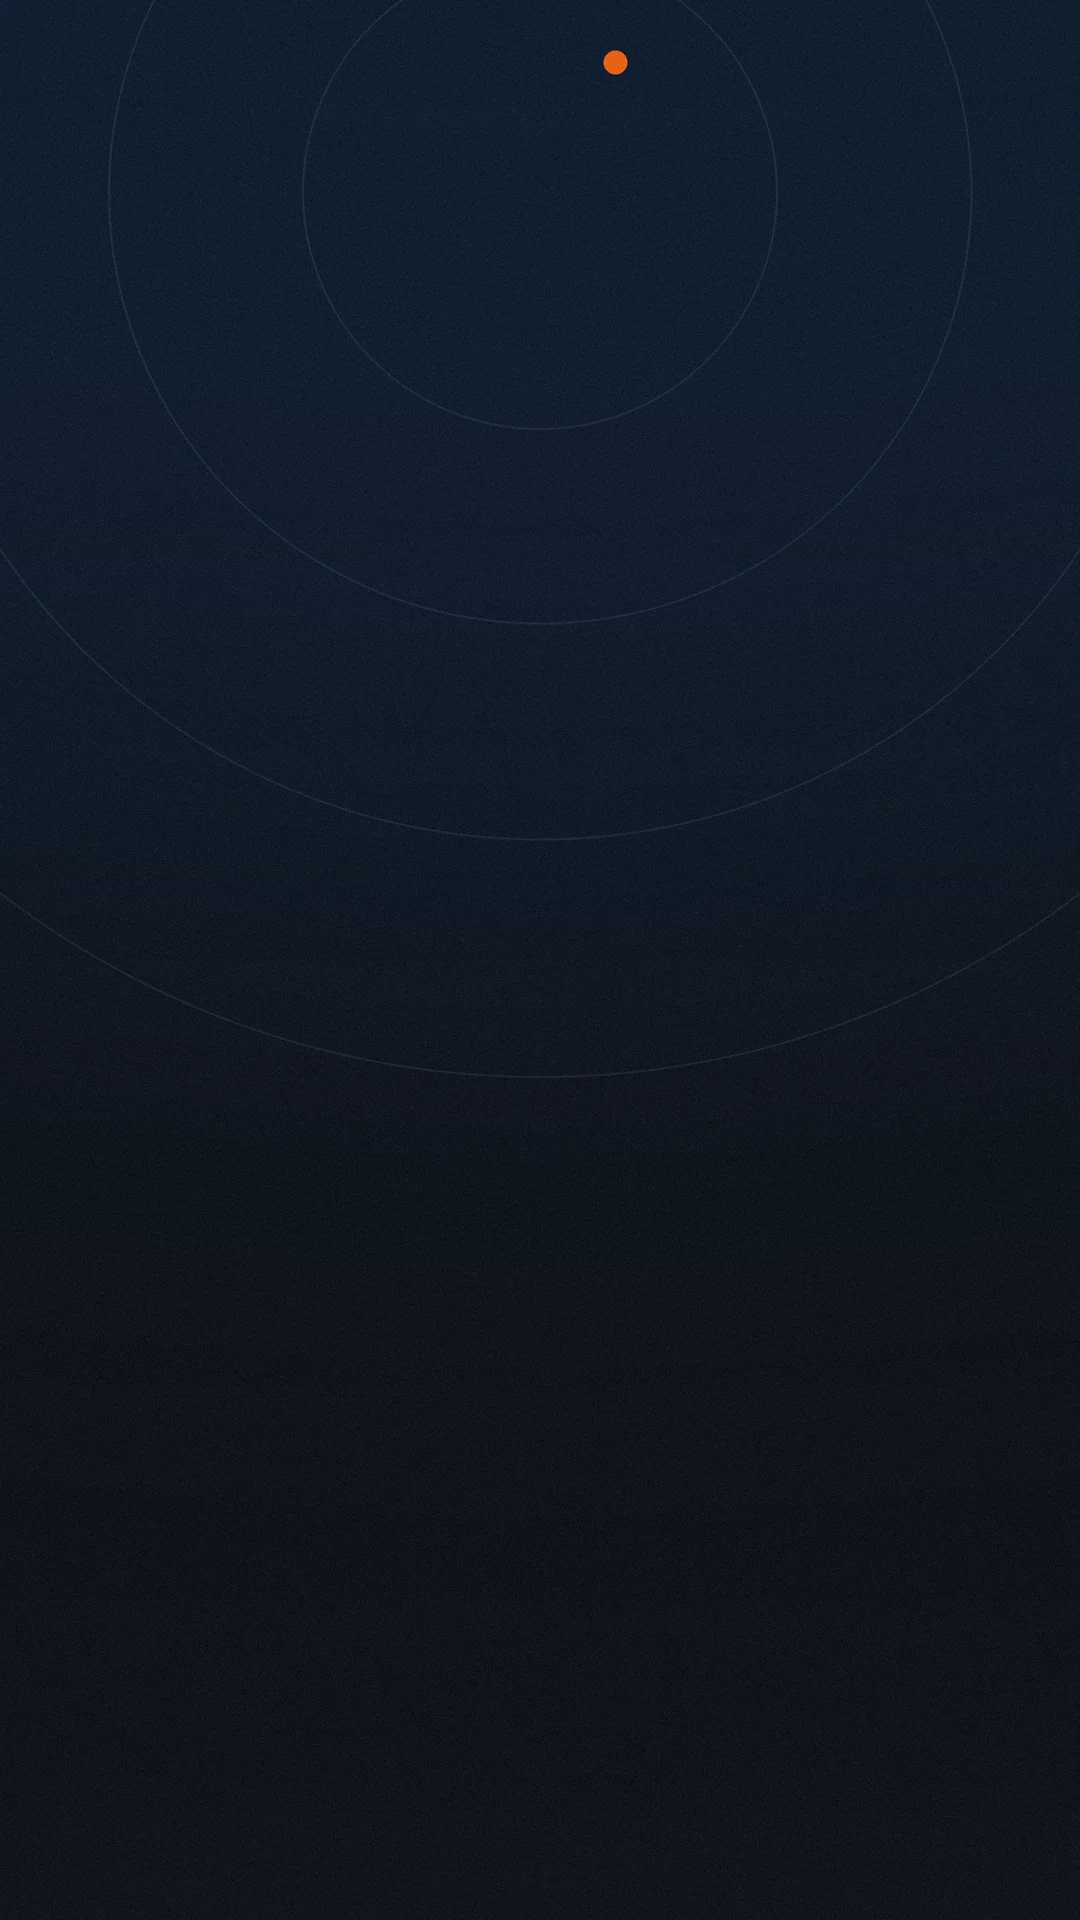
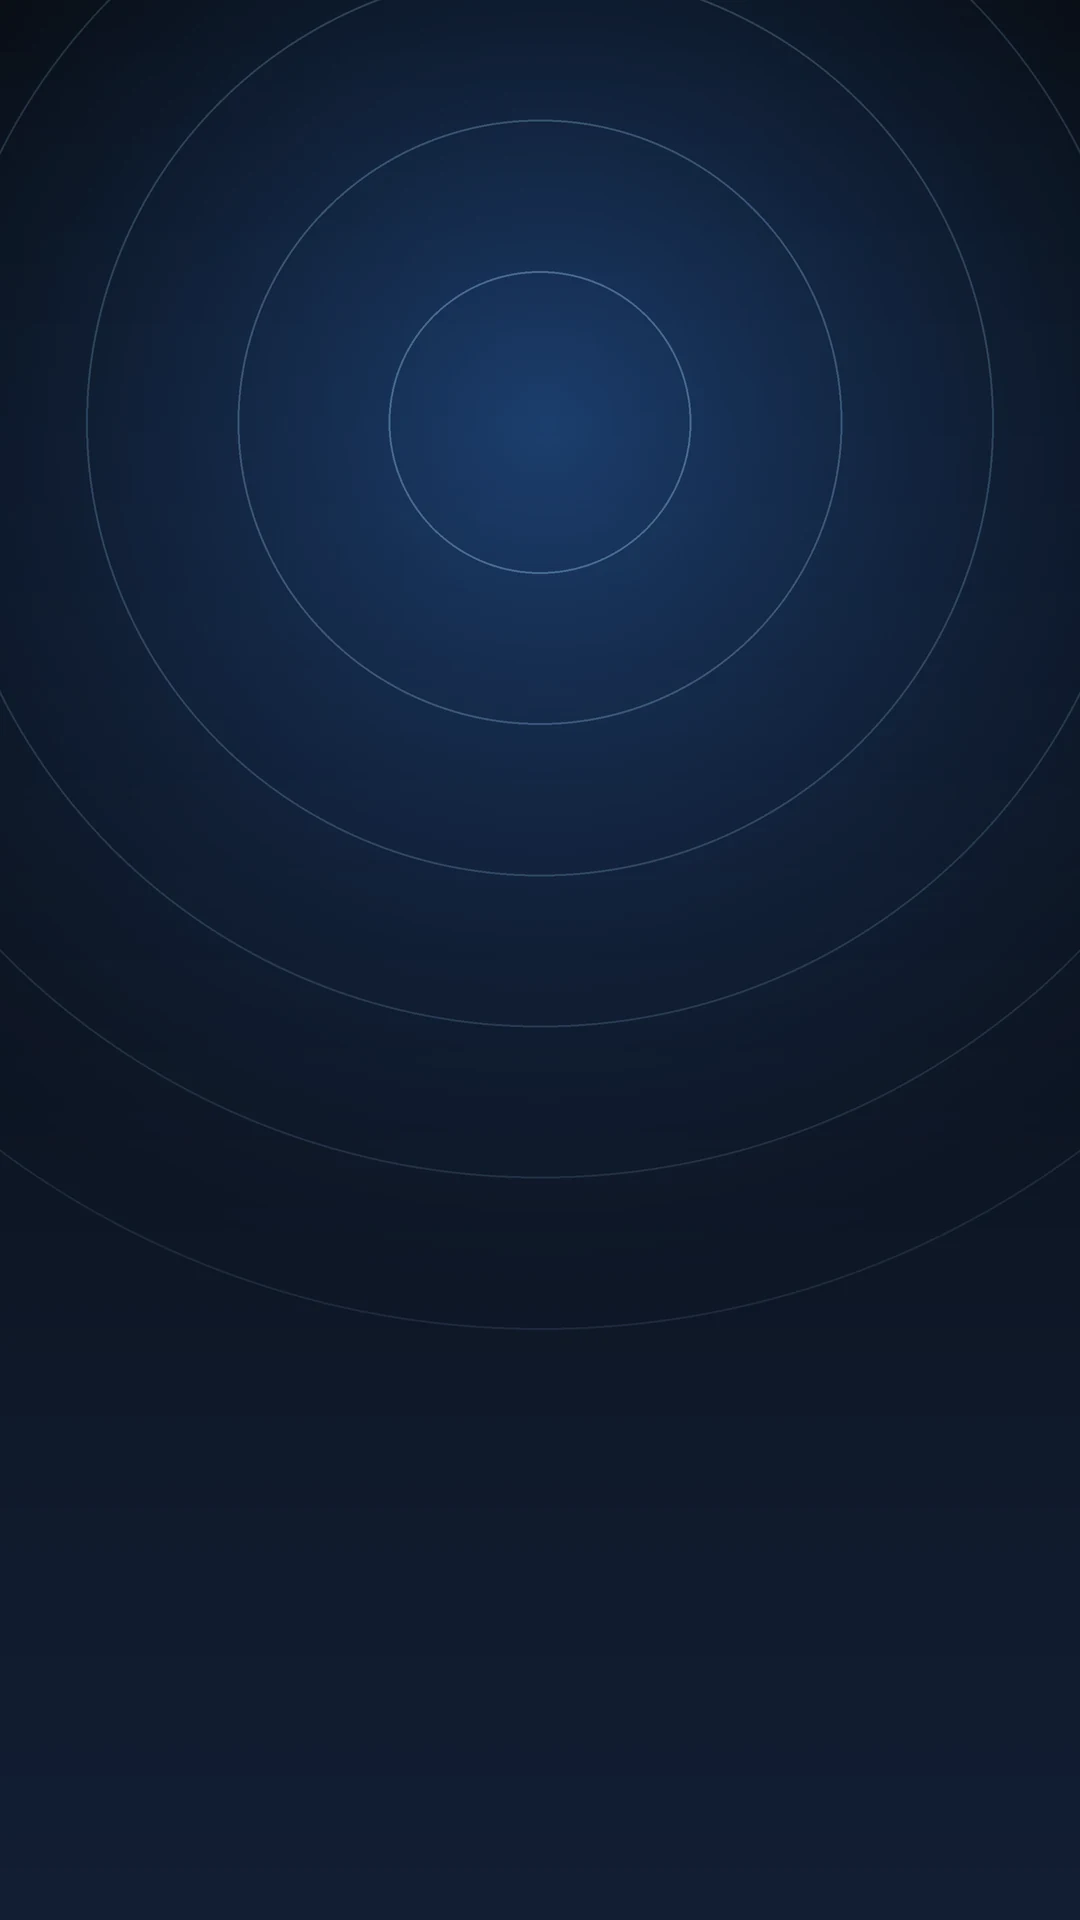
Фоны: градиент, обои мессенджера в стиле Telegram, без оранжевой точки

diff --git a/tools/gen_backgrounds.py b/tools/gen_backgrounds.py
@@ -18,11 +18,11 @@ ORANGE = (255, 106, 19)
 
 THEMES = {
     'dark': {
-        'top': (10, 12, 15), 'bottom': (17, 21, 27),
+        'top': (7, 9, 13), 'bottom': (18, 30, 52),
         'ring': (159, 211, 255), 'glow': (58, 141, 255),
     },
     'light': {
-        'top': (246, 248, 250), 'bottom': (233, 238, 243),
+        'top': (250, 251, 253), 'bottom': (214, 227, 244),
         'ring': (18, 54, 94), 'glow': (160, 200, 255),
     },
 }
@@ -30,95 +30,100 @@ THEMES = {
 SS = 2  # суперсэмплинг для гладких линий
 
 
-def gradient(w, h, top, bottom):
-    img = Image.new('RGB', (w, h))
-    px = img.load()
-    for y in range(h):
-        t = y / (h - 1)
-        c = tuple(round(top[i] + (bottom[i] - top[i]) * t) for i in range(3))
-        for x in range(w):
-            px[x, y] = c
-    return img
+def vgrad(w, h, top, bottom):
+    m = Image.linear_gradient('L').resize((w, h))
+    return Image.composite(Image.new('RGB', (w, h), bottom), Image.new('RGB', (w, h), top), m)
 
 
-def rings(base, cx, cy, radii, color, alpha, width, dot=None):
-    """Кольца с центром (cx, cy) в долях размера (в пикселях базы)."""
-    w, h = base.size
+def radial(img, cx, cy, radius, color, strength):
+    """Мягкое свечение: центр (cx, cy) в пикселях, strength 0..1."""
+    w, h = img.size
+    m = Image.radial_gradient('L').resize((radius * 2, radius * 2))  # 0 в центре, 255 по краю
+    m = m.point(lambda v: int(strength * max(0, 255 - min(255, v * 1.45)) ** 1.5 / 255 ** 0.5))
+    full = Image.new('L', (w, h), 0)
+    full.paste(m, (int(cx - radius), int(cy - radius)))
+    img.paste(Image.new('RGB', (w, h), color), (0, 0), full)
+
+
+def target(img, cx, cy, radii, color, a0, fade, width, dot=None):
+    """Симметричные кольца; прозрачность плавно падает от центра наружу."""
+    w, h = img.size
     layer = Image.new('RGBA', (w, h), (0, 0, 0, 0))
     d = ImageDraw.Draw(layer)
-    for r in radii:
-        d.ellipse([cx - r, cy - r, cx + r, cy + r], outline=color + (int(255 * alpha),), width=width)
+    for i, r in enumerate(radii):
+        a = max(0.0, a0 * (fade ** i))
+        d.ellipse([cx - r, cy - r, cx + r, cy + r], outline=color + (int(255 * a),), width=width)
     if dot:
-        x, y, rr, a = dot
-        d.ellipse([x - rr, y - rr, x + rr, y + rr], fill=ORANGE + (int(255 * a),))
-    base.paste(Image.alpha_composite(base.convert('RGBA'), layer).convert('RGB'))
-
-
-def glow(base, cx, cy, radius, color, alpha):
-    w, h = base.size
-    layer = Image.new('RGBA', (w, h), color + (0,))
-    mask = Image.new('L', (w, h), 0)
-    d = ImageDraw.Draw(mask)
-    d.ellipse([cx - radius, cy - radius, cx + radius, cy + radius], fill=int(255 * alpha))
-    mask = mask.filter(ImageFilter.GaussianBlur(radius / 2.2))
-    layer.putalpha(mask)
-    base.paste(Image.alpha_composite(base.convert('RGBA'), layer).convert('RGB'))
-
-
-def dither(img, amp=1.2, seed=7):
-    """Лёгкий шум против полос на плавных градиентах."""
-    rnd = random.Random(seed)
-    w, h = img.size
-    noise = Image.new('L', (w, h))
-    noise.putdata([128 + int(rnd.gauss(0, amp * 3)) for _ in range(w * h)])
-    n = Image.merge('RGB', (noise, noise, noise))
-    # смешиваем шум как «мягкий свет» очень слабо
-    return ImageChops.add(img, n, scale=1, offset=-128)
-
-
-def finish(img, w, h):
-    return dither(img.resize((w, h), Image.LANCZOS))
+        ang, ri, rr = dot
+        x, y = cx + radii[ri] * math.cos(ang), cy + radii[ri] * math.sin(ang)
+        d.ellipse([x - rr, y - rr, x + rr, y + rr], fill=ORANGE + (255,))
+    img.paste(Image.alpha_composite(img.convert('RGBA'), layer).convert('RGB'))
 
 
 def make(kind, theme, w, h):
     t = THEMES[theme]
+    dark = theme == 'dark'
     W, H = w * SS, h * SS
-    img = gradient(W, H, t['top'], t['bottom'])
+    img = vgrad(W, H, t['top'], t['bottom'])
     ring = t['ring']
-    lw = max(2, round(w * 0.0018)) * SS
+    lw = max(2, round(w * 0.0016)) * SS
+    step = W * 0.14
     if kind == 'home':
-        # огромные кольца, выходящие из правого нижнего угла
-        cx, cy = W * 0.86, H * 1.02
-        rings(img, cx, cy, [W * k for k in (0.35, 0.62, 0.9, 1.2, 1.55)], ring, 0.075, lw)
-        rings(img, W * 0.12, H * 0.07, [W * 0.10, W * 0.18], ring, 0.04, lw)
+        cx, cy = W / 2, H * 0.40
+        radial(img, cx, cy, int(W * 0.9), t['glow'], 0.30 if dark else 0.40)
+        target(img, cx, cy, [step * k for k in range(1, 9)], ring, 0.30 if dark else 0.26, 0.80, lw)
     elif kind == 'messenger':
-        # редкий рисунок из маленьких мишеней, 4–5% контраста
-        step = W * 0.26
-        for row in range(-1, int(H / step) + 2):
-            off = step / 2 if row % 2 else 0
-            for col in range(-1, int(W / step) + 2):
-                x, y = col * step + off, row * step * 0.95
-                rr = W * 0.022
-                rings(img, x, y, [rr, rr * 1.9, rr * 2.8], ring, 0.05, max(1, lw // 2))
+        # в духе обоев Telegram: диагональный градиент + узор из простых значков
+        v = Image.linear_gradient('L').resize((W, H))
+        hz = Image.linear_gradient('L').rotate(90).resize((W, H))
+        m = ImageChops.add(v, hz, scale=2)
+        c1, c2 = ((12, 24, 48), (22, 70, 96)) if dark else ((205, 226, 248), (236, 244, 252))
+        img = Image.composite(Image.new('RGB', (W, H), c2), Image.new('RGB', (W, H), c1), m)
+        pat = Image.new('RGBA', (W, H), (0, 0, 0, 0))
+        d = ImageDraw.Draw(pat)
+        col = (255, 255, 255, 34) if dark else (18, 54, 94, 30)
+        cell = W * 0.15
+        u = cell * 0.17
+        lw2 = max(2, lw)
+        rnd = random.Random(3)
+        for row in range(int(H / cell) + 2):
+            for c in range(int(W / cell) + 2):
+                x = c * cell + (cell / 2 if row % 2 else 0)
+                y = row * cell
+                k = (row * 3 + c * 5 + rnd.randint(0, 1)) % 6
+                if k == 0:    # мишень
+                    for r in (u, u * 0.55):
+                        d.ellipse([x - r, y - r, x + r, y + r], outline=col, width=lw2)
+                elif k == 1:  # прицел
+                    d.line([x - u, y, x + u, y], fill=col, width=lw2)
+                    d.line([x, y - u, x, y + u], fill=col, width=lw2)
+                elif k == 2:  # точка-пробоина
+                    r = u * 0.45
+                    d.ellipse([x - r, y - r, x + r, y + r], outline=col, width=lw2)
+                elif k == 3:  # кольцо
+                    r = u * 0.8
+                    d.ellipse([x - r, y - r, x + r, y + r], outline=col, width=lw2)
+                elif k == 4:  # ромб
+                    r = u * 0.8
+                    d.polygon([(x, y - r), (x + r, y), (x, y + r), (x - r, y)], outline=col, width=lw2)
+                else:         # плюс
+                    d.line([x - u * 0.6, y, x + u * 0.6, y], fill=col, width=lw2)
+                    d.line([x, y - u * 0.6, x, y + u * 0.6], fill=col, width=lw2)
+        img = Image.alpha_composite(img.convert('RGBA'), pat).convert('RGB')
     elif kind == 'settings':
-        # почти ровный фон, едва заметные кольца, уходящие от верхней кромки
-        rings(img, W * 0.5, -H * 0.04, [W * k for k in (0.42, 0.7, 0.98, 1.28)], ring, 0.05, lw)
+        cx, cy = W / 2, 0
+        target(img, cx, cy, [step * k for k in range(2, 12)], ring, 0.12 if dark else 0.10, 0.88, lw)
     elif kind == 'ai':
-        glow(img, W * 0.5, H * 0.1, W * 0.72, t['glow'], 0.14 if theme == 'dark' else 0.28)
-        rings(img, W * 0.5, H * 0.1, [W * k for k in (0.22, 0.4, 0.6, 0.82)], ring, 0.09 if theme == 'dark' else 0.10, lw,
-              dot=(W * 0.5 + W * 0.07, H * 0.1 - W * 0.12, W * 0.011, 0.9))
+        cx, cy = W / 2, H * 0.22
+        radial(img, cx, cy, int(W * 0.85), t['glow'], 0.38 if dark else 0.50)
+        target(img, cx, cy, [step * k for k in range(1, 7)], ring, 0.34 if dark else 0.28, 0.78, lw)
     elif kind == 'launch':
-        # как кадр заставки: семь колец и оранжевая точка над центром
-        base = Image.new('RGB', (W, H), (0, 0, 0) if theme == 'dark' else (244, 246, 248))
-        cx, cy = W * 0.5, H * 0.5
-        radii = [W * (0.11 + 0.065 * i) for i in range(7)]
-        col = (159, 211, 255) if theme == 'dark' else (18, 54, 94)
-        for i, r in enumerate(radii):
-            a = 0.55 + 0.4 * (i / 6) if theme == 'dark' else 0.5 + 0.4 * (i / 6)
-            rings(base, cx, cy, [r], col, min(a, 0.95), lw * 2)
-        rings(base, cx, cy, [], col, 0, 1, dot=(cx, cy - W * 0.115, W * 0.022, 1.0))
+        base = Image.new('RGB', (W, H), (0, 0, 0) if dark else (244, 246, 248))
+        cx, cy = W / 2, H / 2
+        col = (159, 211, 255) if dark else (18, 54, 94)
+        target(base, cx, cy, [W * (0.10 + 0.06 * i) for i in range(7)], col, 0.35, 1.0, lw * 2)
         img = base
-    return finish(img, w, h)
+    return img.resize((w, h), Image.LANCZOS)
 
 
 def make_icon(theme, size=1024, foreground_only=False):
@@ -138,9 +143,6 @@ def make_icon(theme, size=1024, foreground_only=False):
         r = maxr * (i + 1) / n
         a = 120 + int(120 * (i + 1) / n)
         d.ellipse([cx - r, cy - r, cx + r, cy + r], outline=col + (a,), width=max(3, S // 170))
-    rr = S * 0.036
-    px, py = cx + maxr * 0.16, cy - maxr * 0.46
-    d.ellipse([px - rr, py - rr, px + rr, py + rr], fill=ORANGE + (255,))
     return img.resize((size, size), Image.LANCZOS)
 
 
